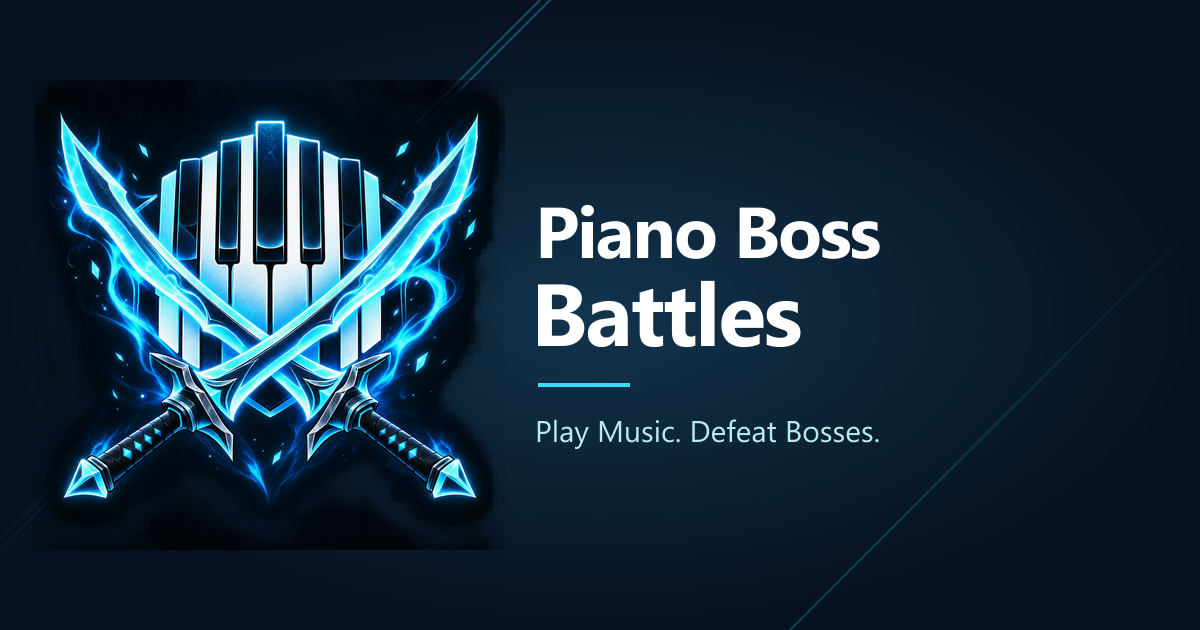
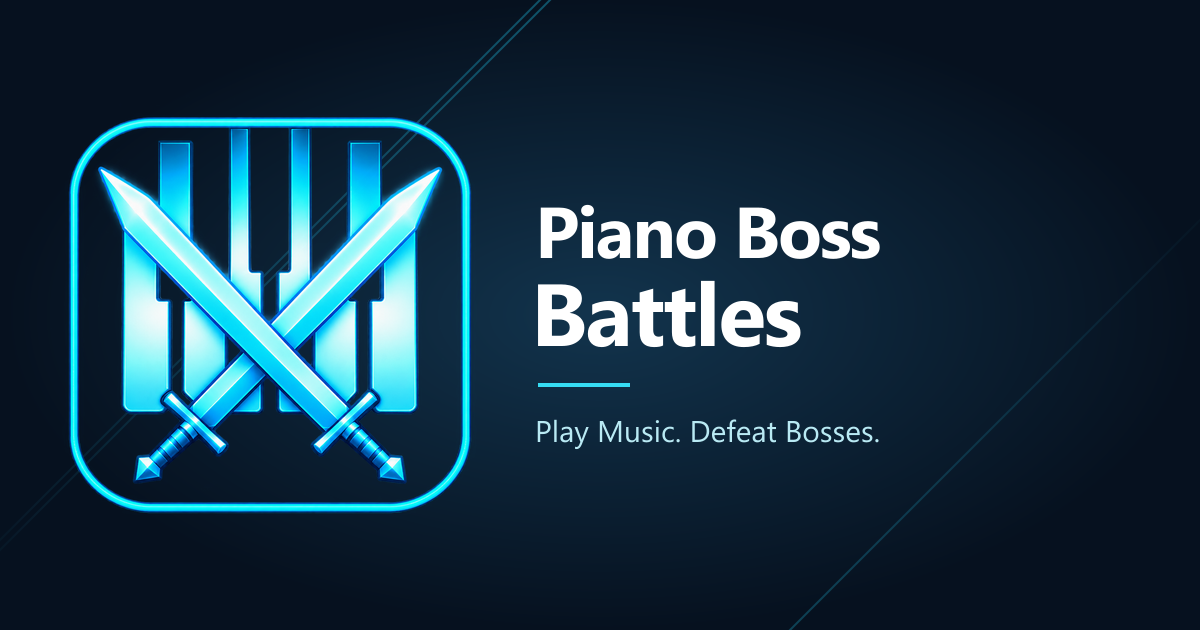
Refine transparent emblem and compact desktop battle setup

Changed region(s): [[0.0308, 0.1206, 0.4317, 0.8746]]

diff --git a/public-app/compact-dashboard.css b/public-app/compact-dashboard.css
@@ -1,0 +1,104 @@
+/* Optional settings stay one click away instead of adding a full panel below
+   every setup screen. Narrow/short viewports retain ordinary page scrolling. */
+.authenticated-app .setup-extras{display:flex;align-items:start;gap:12px;margin-top:10px}
+.authenticated-app .setup-extras .progress-disclosures{flex:1;margin:0}
+.authenticated-app .audio-disclosure{position:relative;margin-left:auto;border:1px solid #20536f;border-radius:8px;background:#081e30;min-width:215px}
+.authenticated-app .audio-disclosure>summary{padding:12px 14px;cursor:pointer;font-size:13px;font-weight:600}
+.authenticated-app .audio-disclosure>summary small{display:inline;margin-left:10px;font-size:11px;color:#9fc5df}
+.authenticated-app .audio-disclosure>.battle-audio-settings{position:absolute;right:0;bottom:calc(100% + 8px);width:min(580px,calc(100vw - 32px));max-height:75svh;overflow:auto;margin:0;background:#081c30;z-index:40;box-shadow:0 12px 35px #0009}
+@media(max-width:750px){
+ .authenticated-app .setup-extras{flex-direction:column}
+ .authenticated-app .setup-extras .progress-disclosures,.authenticated-app .audio-disclosure{width:100%}
+ .authenticated-app .audio-disclosure>.battle-audio-settings{position:static;width:auto;max-height:none;box-shadow:none}
+}
+@media(min-width:1100px) and (min-height:768px){
+ .public-app.authenticated-app main:has(.v2-builder){padding:0 24px 10px}
+ .authenticated-app .v2-builder{--setup-height:calc(100svh - 264px)}
+ .authenticated-app .v2-builder .player-header{min-height:68px;padding:8px 24px;margin:0 -24px;gap:16px}
+ .authenticated-app .v2-builder .player-brand{font-size:26px;gap:12px}
+ .authenticated-app .v2-builder .player-strip{gap:14px}
+ .authenticated-app .v2-builder .player-avatar{width:40px;height:40px}
+ .authenticated-app .v2-builder .player-brand small{font-size:9px}
+ .authenticated-app .v2-builder .builder-steps{padding:8px 0}
+ .authenticated-app .v2-builder .step-orb{width:34px;height:34px;font-size:18px}
+ .authenticated-app .v2-builder .builder-steps small{font-size:11px}
+ .authenticated-app .v2-builder .midi-ribbon{padding:5px 12px;margin-bottom:10px;min-height:44px}
+ .authenticated-app .v2-builder .midi-ribbon button{padding:7px 12px}
+ .authenticated-app .v2-builder .setup-columns{gap:14px;height:var(--setup-height);min-height:0}
+ .authenticated-app .v2-builder .challenge-panel,.authenticated-app .v2-builder .setlist-panel{padding:14px;min-height:0}
+ .authenticated-app .v2-builder .panel-title{gap:12px;margin-bottom:10px}
+ .authenticated-app .v2-builder .panel-title>.ui-icon{width:36px;height:36px}
+ .authenticated-app .v2-builder .panel-title h1{font-size:32px}
+ .authenticated-app .v2-builder .panel-title p{font-size:12px}
+ .authenticated-app .v2-builder .challenge-panel legend{margin-bottom:8px;min-height:30px;font-size:13px;padding-left:38px}
+ .authenticated-app .v2-builder .section-number{width:27px;height:27px;font-size:14px}
+ .authenticated-app .v2-builder .mode-grid{gap:8px;margin-bottom:12px}
+ .authenticated-app .v2-builder .mode-grid button{min-height:98px;padding:8px}
+ .authenticated-app .v2-builder .mode-grid .ui-icon{width:24px;height:24px;margin-bottom:5px}
+ .authenticated-app .v2-builder .mode-grid b{font-size:13px}
+ .authenticated-app .v2-builder .mode-grid small{font-size:11px;line-height:1.3;margin-top:4px}
+ .authenticated-app .v2-builder .settings-row{gap:10px}
+ .authenticated-app .v2-builder .section-label{padding-left:38px;min-width:140px;font-size:12px}
+ .authenticated-app .v2-builder .compact-fields{gap:8px}
+ .authenticated-app .v2-builder input,.authenticated-app .v2-builder select{padding:7px 9px;font-size:12px}
+ .authenticated-app .v2-builder .tempo-help,.authenticated-app .v2-builder .tempo-progression{margin:4px 0 8px}
+ .authenticated-app .v2-builder .boss-label{margin-bottom:8px}
+ .authenticated-app .v2-builder .boss-choice{height:clamp(110px,calc(100svh - 650px),260px)}
+ .authenticated-app .v2-builder .boss-choice>div{padding:18px 12px 10px}
+ .authenticated-app .v2-builder .boss-choice b{font-size:17px}
+ .authenticated-app .v2-builder .boss-choice small{font-size:11px}
+ .authenticated-app .v2-builder .setlist-panel>fieldset{display:flex;flex-direction:column;min-height:0}
+ .authenticated-app .v2-builder .setlist-title{gap:10px;margin-bottom:8px;flex-wrap:nowrap}
+ .authenticated-app .v2-builder .setlist-title h2{font-size:19px}
+ .authenticated-app .v2-builder .setlist-title small{font-size:11px}
+ .authenticated-app .v2-builder .setlist-title label{width:145px;max-width:38%;font-size:11px}
+ .authenticated-app .v2-builder .music-list{height:auto;flex:1;min-height:80px}
+ .authenticated-app .v2-builder .music-list>div{min-height:46px;padding:6px 10px}
+ .authenticated-app .v2-builder .queue-heading{margin-top:8px;padding-top:4px}
+ .authenticated-app .v2-builder .queue-heading h3{font-size:13px;margin:5px 0}
+ .authenticated-app .v2-builder .battle-queue{margin:4px 0 6px;max-height:144px;flex-shrink:0}
+ .authenticated-app .v2-builder .battle-queue li{padding:5px;margin-bottom:4px}
+ .authenticated-app .v2-builder .battle-queue input{padding:3px;width:46px}
+ .authenticated-app .v2-builder .continue-button{margin-top:8px;padding:10px}
+ .authenticated-app .v2-builder .preview-columns{height:var(--setup-height);gap:14px;align-items:stretch;grid-template-columns:minmax(0,3fr) minmax(300px,1fr)}
+ .authenticated-app .v2-builder .battle-preview .theatre-stage{height:calc(var(--setup-height) - 2px);grid-template-rows:60% 40%;padding:0 12px 12px}
+ .authenticated-app .v2-builder .battle-preview .theatre-stage>.boss-battle-panel{margin:0 -12px}
+ .authenticated-app .v2-builder .battle-preview .theatre-heading{padding:12px 16px}
+ .authenticated-app .v2-builder .battle-preview h2{font-size:26px;margin:5px 0 7px}
+ .authenticated-app .v2-builder .preview-meta{font-size:11px;gap:8px}
+ .authenticated-app .v2-builder .battle-preview .battle-stage{top:78px;height:calc(100% - 78px)}
+ .authenticated-app .v2-builder .preview-versus{top:36%;font-size:42px}
+ .authenticated-app .v2-builder .score-caption{top:calc(60% - 22px);left:20px;right:20px;font-size:8px}
+ .authenticated-app .v2-builder .battle-summary{min-height:0;padding:12px;overflow:auto}
+ .authenticated-app .v2-builder .summary-heading button{padding:6px 8px;font-size:11px}
+ .authenticated-app .v2-builder .battle-summary dl{margin:8px 0;padding:0 9px}
+ .authenticated-app .v2-builder .battle-summary dl>div{min-height:30px;padding:6px 0}
+ .authenticated-app .v2-builder .battle-summary dd{font-size:12px}
+ .authenticated-app .v2-builder .battle-summary dd small{display:none}
+ .authenticated-app .v2-builder .battle-summary dt img{width:22px;height:24px}
+ .authenticated-app .v2-builder .battle-summary dt .ui-icon{width:19px;height:19px}
+ .authenticated-app .v2-builder .notation-appearance{margin:9px 0}
+ .authenticated-app .v2-builder .notation-appearance legend{margin-bottom:5px;font-size:12px}
+ .authenticated-app .v2-builder .notation-appearance button{padding:5px;font-size:11px}
+ .authenticated-app .v2-builder .notation-appearance button span{width:20px;height:20px;font-size:17px}
+ .authenticated-app .v2-builder .notation-appearance>small{font-size:10px;margin-top:4px}
+ .authenticated-app .v2-builder .start-button{padding:8px}
+ .authenticated-app .v2-builder .readiness{padding:7px;margin-top:7px;font-size:10px;line-height:1.35}
+ .authenticated-app .v2-builder .history{padding:11px 14px}
+ .authenticated-app .v2-builder .history summary{font-size:12px;gap:9px}
+}
+
+@media(min-width:1100px) and (min-height:768px) and (max-height:820px){
+ .authenticated-app .v2-builder .battle-summary dl>div{min-height:23px;padding:3px 0}
+ .authenticated-app .v2-builder .battle-summary dt img{height:18px}
+ .authenticated-app .v2-builder .battle-summary .sequence-review{margin:4px 0;font-size:11px}
+ .authenticated-app .v2-builder .battle-summary .readiness{margin-top:6px;padding:5px}
+ .authenticated-app .v2-builder .battle-summary .start-button{padding:5px}
+ .authenticated-app .v2-builder .battle-summary .start-button>.ui-icon:first-child{height:22px;width:22px}
+}
+@media(min-width:1100px) and (min-height:768px) and (max-height:820px){
+ .authenticated-app .v2-builder .battle-summary dl>div{min-height:20px;padding:2px 0;line-height:1.3}
+ .authenticated-app .v2-builder .battle-summary dt .ui-icon{width:16px;height:16px}
+ .authenticated-app .v2-builder .battle-summary .start-button{min-height:34px;height:34px;font-size:14px}
+ .authenticated-app .v2-builder .battle-summary .notation-appearance button{min-height:26px;height:26px;padding:3px}
+}

diff --git a/tests/public-browser/home.spec.ts b/tests/public-browser/home.spec.ts
@@ -577,6 +577,7 @@ const audioStarts=(page:Page)=>page.evaluate(()=>(window as unknown as {battleAu
 
 test('Battle Audio presets, test sound, volume and mute persist without affecting MIDI',async({page})=>{
  await fixture(page,true);await audioProbe(page);await page.goto('/');
+ await page.locator('.audio-disclosure > summary').click();
  const audio=page.getByRole('region',{name:'Battle Audio',exact:true});
  await expect(audio.getByRole('button',{name:/Focus Mode/})).toHaveAttribute('aria-pressed','true');
  await expect(audio.getByRole('slider')).toHaveCount(0);
@@ -589,12 +590,13 @@ test('Battle Audio presets, test sound, volume and mute persist without affectin
  await expect(audio.getByRole('slider',{name:/^Effects volume/})).toHaveValue('40');
  await audio.getByRole('slider',{name:/^Effects volume/}).fill('65');
  await expect(page.getByRole('status').filter({hasText:'All progress saved'})).toBeVisible();
- await page.reload();await expect(audio.getByRole('button',{name:/Cinematic Mode/})).toHaveAttribute('aria-pressed','true');
+ await page.reload();await page.locator('.audio-disclosure > summary').click();await expect(audio.getByRole('button',{name:/Cinematic Mode/})).toHaveAttribute('aria-pressed','true');
  await expect(audio.getByRole('slider',{name:/^Effects volume/})).toHaveValue('65');
  await audio.getByRole('slider',{name:/^Effects volume/}).fill('0');
  await expect(audio.getByRole('button',{name:'Test Sound',exact:true})).toBeDisabled();
  await audio.getByRole('button',{name:/Focus Mode/}).click();
  await expect(audio.getByRole('slider')).toHaveCount(0);
+ await page.locator('.audio-disclosure > summary').click();
  await page.getByRole('button',{name:'Connect MIDI Piano'}).click();
  await page.getByRole('button',{name:/Continue to Battle Preview/}).click();
  await page.getByRole('button',{name:'Start Battle',exact:true}).click();await page.waitForTimeout(3500);
@@ -604,6 +606,7 @@ test('Battle Audio presets, test sound, volume and mute persist without affectin
  await page.waitForTimeout(500);expect(await audioStarts(page)).toBe(0);
  await page.getByRole('button',{name:'End Battle',exact:true}).click();
  await page.getByRole('button',{name:'Return to preview',exact:true}).click();
+ await page.locator('.audio-disclosure > summary').click();
  await audio.screenshot({path:'test-results/battle-audio-focus.png'});
  await page.setViewportSize({width:390,height:844});await audio.getByRole('button',{name:/Immersive Mode/}).click();
  await audio.screenshot({path:'test-results/battle-audio-mobile.png'});
@@ -613,6 +616,7 @@ test('Battle Audio presets, test sound, volume and mute persist without affectin
 test('player presets leave the designated OBS source audible and a second source silent',async({page,context})=>{
  test.setTimeout(90000);
  const state=await fixture(page,true);await audioProbe(page);await page.goto('/');
+ await page.locator('.audio-disclosure > summary').click();
  const audio=page.getByRole('region',{name:'Battle Audio',exact:true});
  await audio.getByText('Advanced audio settings',{exact:true}).click();
  await audio.getByLabel('Combat audio output').selectOption('obs');
@@ -622,6 +626,7 @@ test('player presets leave the designated OBS source audible and a second source
   await audio.getByRole('button',{name:new RegExp(name)}).click();
   expect(state.player().settings.bossBattle).toMatchObject({audioOutput:'obs',soundEnabled:true,volume:.13});
  }
+ await page.locator('.audio-disclosure > summary').click();
  const obs=await context.newPage();await fixture(obs,true);await audioProbe(obs);
  const overlay=(p:Page)=>p.route('**/api/obs**',r=>{
   const url=new URL(r.request().url()),snapshot={snapshot:state.snapshot(),gamePlayer:state.player(),updatedAt:Date.now(),attempts:0,best:null};
@@ -705,4 +710,19 @@ test('lightweight catalog opens immediately and preloads the complete setlist be
  await expect.poll(async()=>Number(await page.locator('[data-authoritative-boss-hp]').getAttribute('data-authoritative-boss-hp'))).toBe(before-pitches.length-next.length);
  expect(loads.sort()).toEqual([2007,2008]);
  await page.screenshot({path:'test-results/preloaded-chain-transition.png',fullPage:true});
+});
+
+for(const viewport of [{width:1366,height:768},{width:1440,height:900},{width:1920,height:1080}])test(`compact setup and preview fit ${viewport.width}x${viewport.height}`,async({page})=>{
+ await page.setViewportSize(viewport);await fixture(page,true);
+ await page.addInitScript(id=>localStorage.setItem(`pbb:setup:v2:${id}`,JSON.stringify({hand:'both',entries:[{number:2001,loops:2},{number:2002,loops:2},{number:2003,loops:2}]})),id);
+ await page.goto('/');await page.getByRole('button',{name:/Ultimate Boss/}).click();
+ await page.screenshot({path:`test-results/compact-setup-${viewport.width}.png`});
+ expect(await page.locator('.challenge-panel').evaluate(e=>Array.from(e.querySelectorAll('.boss-choice')).every(card=>card.getBoundingClientRect().bottom<=e.getBoundingClientRect().bottom))).toBe(true);
+ expect(await page.evaluate(()=>({height:document.documentElement.scrollHeight,width:document.documentElement.scrollWidth}))).toEqual({height:viewport.height,width:viewport.width});
+ await page.getByRole('button',{name:/Continue to Battle Preview/}).click();
+ await expect(page.locator('.sight-score svg').first()).toBeVisible();
+ await page.screenshot({path:`test-results/compact-preview-${viewport.width}.png`});
+ expect(await page.evaluate(()=>({height:document.documentElement.scrollHeight,width:document.documentElement.scrollWidth}))).toEqual({height:viewport.height,width:viewport.width});
+ expect(await page.locator('.battle-summary').evaluate(e=>e.scrollHeight<=e.clientHeight+1)).toBe(true);
+ await expect(page.getByRole('button',{name:'Start Battle',exact:true})).toBeInViewport();
 });

diff --git a/public-app/player-home.tsx b/public-app/player-home.tsx
@@ -193,11 +193,13 @@ function LoadedPlayerHome({user,catalog,admin,libraryError,refreshLibrary}:{user
           <p className="readiness" role="status">{c.running?"Your battle is paused here. Return when you’re ready.":missing||"Everything looks good. Start Battle when you’re ready."}</p>
         </aside>
       </div>
-      <div className="progress-disclosures" hidden={theatre||!preview}>
+      <div className="setup-extras" hidden={theatre}>
+      <div className="progress-disclosures" hidden={!preview}>
         <details className="setup-section history"><summary><Icon name="bars"/>Recent Battles</summary>{profileError&&<p role="alert">{profileError}</p>}{!history.length?<p>Your completed battles will appear here.</p>:<ul>{history.map(h=><li key={h.attemptId}><strong>{h.result.toUpperCase()}</strong><span>{h.accuracy.toFixed(1)}% accuracy · {h.bestCombo} best combo · {h.completed}/{h.total} pieces</span></li>)}</ul>}</details>
         <details className="setup-section history"><summary><Icon name="cup"/>Personal Bests</summary><p>{game.player.unlocks.length} achievements unlocked · Best note combo: {game.player.best}</p>{profileError&&<p role="alert">{profileError}</p>}{bests.length?<ul>{bests.map(b=><li key={b.exerciseNumber}><span>{catalog.find(e=>e.number===b.exerciseNumber)?.title??`Exercise ${b.exerciseNumber}`}</span><strong>{Number(b.accuracy).toFixed(1)}%</strong></li>)}</ul>:<p>Finish a piece to set your first personal best.</p>}</details>
       </div>
-      <BattleAudioSettings settings={settings} hidden={theatre}/>
+      <details className="audio-disclosure"><summary>Battle Audio <small>{settings.playerAudio.mode==='focus'?'Focus Mode':settings.playerAudio.mode==='immersive'?'Immersive Mode':'Cinematic Mode'}</small></summary><BattleAudioSettings settings={settings}/></details>
+      </div>
     </div>;
   };
   return <SightReading library={scoreLibrary} attempts={[]} practice hideHeading experience={{entries:queue,hand,canStart:scoresReady&&connected&&queue.length>0&&!unavailable&&!libraryError&&game.ready&&!game.recoveryError,render}}/>;

diff --git a/tests/public-branding.test.ts b/tests/public-branding.test.ts
@@ -31,3 +31,12 @@ it('preserves the exact approved source and emits correctly sized icons and shar
   expect(await sharp(ico.subarray(offset,offset+length)).metadata()).toMatchObject({format:'png',width:[16,32,48][i],height:[16,32,48][i]});
  }
 });
+
+it('emblem and favicon have transparent backgrounds and visible artwork',async()=>{
+ for(const name of ['branding/emblem-128.png','branding/favicon-32.png']){
+  const {data,info}=await sharp(`hosted/public/${name}`).ensureAlpha().raw().toBuffer({resolveWithObject:true});
+  const alpha=Array.from(data).filter((_,i)=>i%info.channels===3);
+  expect(alpha.filter(a=>a===0).length).toBeGreaterThan(alpha.length*.1);
+  expect(alpha.filter(a=>a>200).length).toBeGreaterThan(alpha.length*.1);
+ }
+});

diff --git a/public-app/home.tsx b/public-app/home.tsx
@@ -8,6 +8,7 @@ import { PlayerHome } from "./player-home";
 import { BrandEmblem } from "./brand-emblem";
 import "./public.css";
 import "./player-home.css";
+import "./compact-dashboard.css";
 const hero="/battle/cinematics/hero-finish.png";
 export function PublicApp() {
   const account=useAccount();

diff --git a/design/branding/README.md b/design/branding/README.md
@@ -5,7 +5,7 @@ from the October 20, 2026 attachment. SHA-256:
[1 lines of base64/hex data omitted]
 The original is retained here as source material, not copied into the public build.
 
-`node scripts/generate-branding.mjs` makes mechanical resized copies using Sharp
+`node scripts/generate-branding.mjs` makes mechanical resized copies of `emblem-transparent-v2.png` using Sharp
 (already installed with Next.js), an ICO containing 16/32/48 px PNGs, the 180 px
 Apple icon, and the 1200x630 social card. The social card composes the exact emblem
 with live-rendered typography and a navy background; it does not redraw the logo.
@@ -36,3 +36,26 @@ MIDI scoring, chains, notation presets and OBS audio-owner behavior. TypeScript,
 changed-file ESLint and the Pages/Worker build passed. Desktop and 390 px mobile
 screenshots were inspected. Browser auth/gameplay tests use fixture accounts;
 this branding change does not change the underlying authentication or gameplay.
+
+## Transparent emblem revision and compact setup (October 20)
+
+The new owner-supplied simplified cyan keys/crossed-swords reference was edited
+with built-in ImageGen (transparent background mode) into
+`emblem-transparent-v2.png`. Original approved artwork remains untouched.
+Header and favicon derivatives preserve transparent pixels; Apple touch icon
+and social card retain their intentional navy backgrounds.
+
+Generation prompt: Create a polished high-resolution transparent PNG logo emblem
+closely matching the supplied Piano Boss Battles reference. Keep upright cyan
+piano keys, two simple crossed cyan-white swords with points upward, and a thin
+softly rounded cyan square border. Clean simplified beveled luminous cyan design,
+restrained edge glow, clear small favicon silhouette. Center with small even
+margins. Remove the navy background completely, including empty gaps; no opaque
+badge backing, text, extra objects, smoke, or large flames. Readable at 40px and 32px.
+
+Desktop setup and preview use viewport-responsive sizing at widths >=1100px and
+heights >=768px. Music lists and long queues scroll internally; smaller screens
+retain page scrolling. Battle Audio is an expandable control, and existing
+history controls remain available. Active Theatre and OBS layouts are unchanged.
+
+Revision checks: 28 browser tests, 3 branding tests, TypeScript, changed-file ESLint, and preview production build passed. Desktop screenshots inspected at 1366x768, 1440x900, and 1920x1080; narrow layout retains scrolling. No real-account or physical MIDI retesting was needed for this presentation-only revision.
